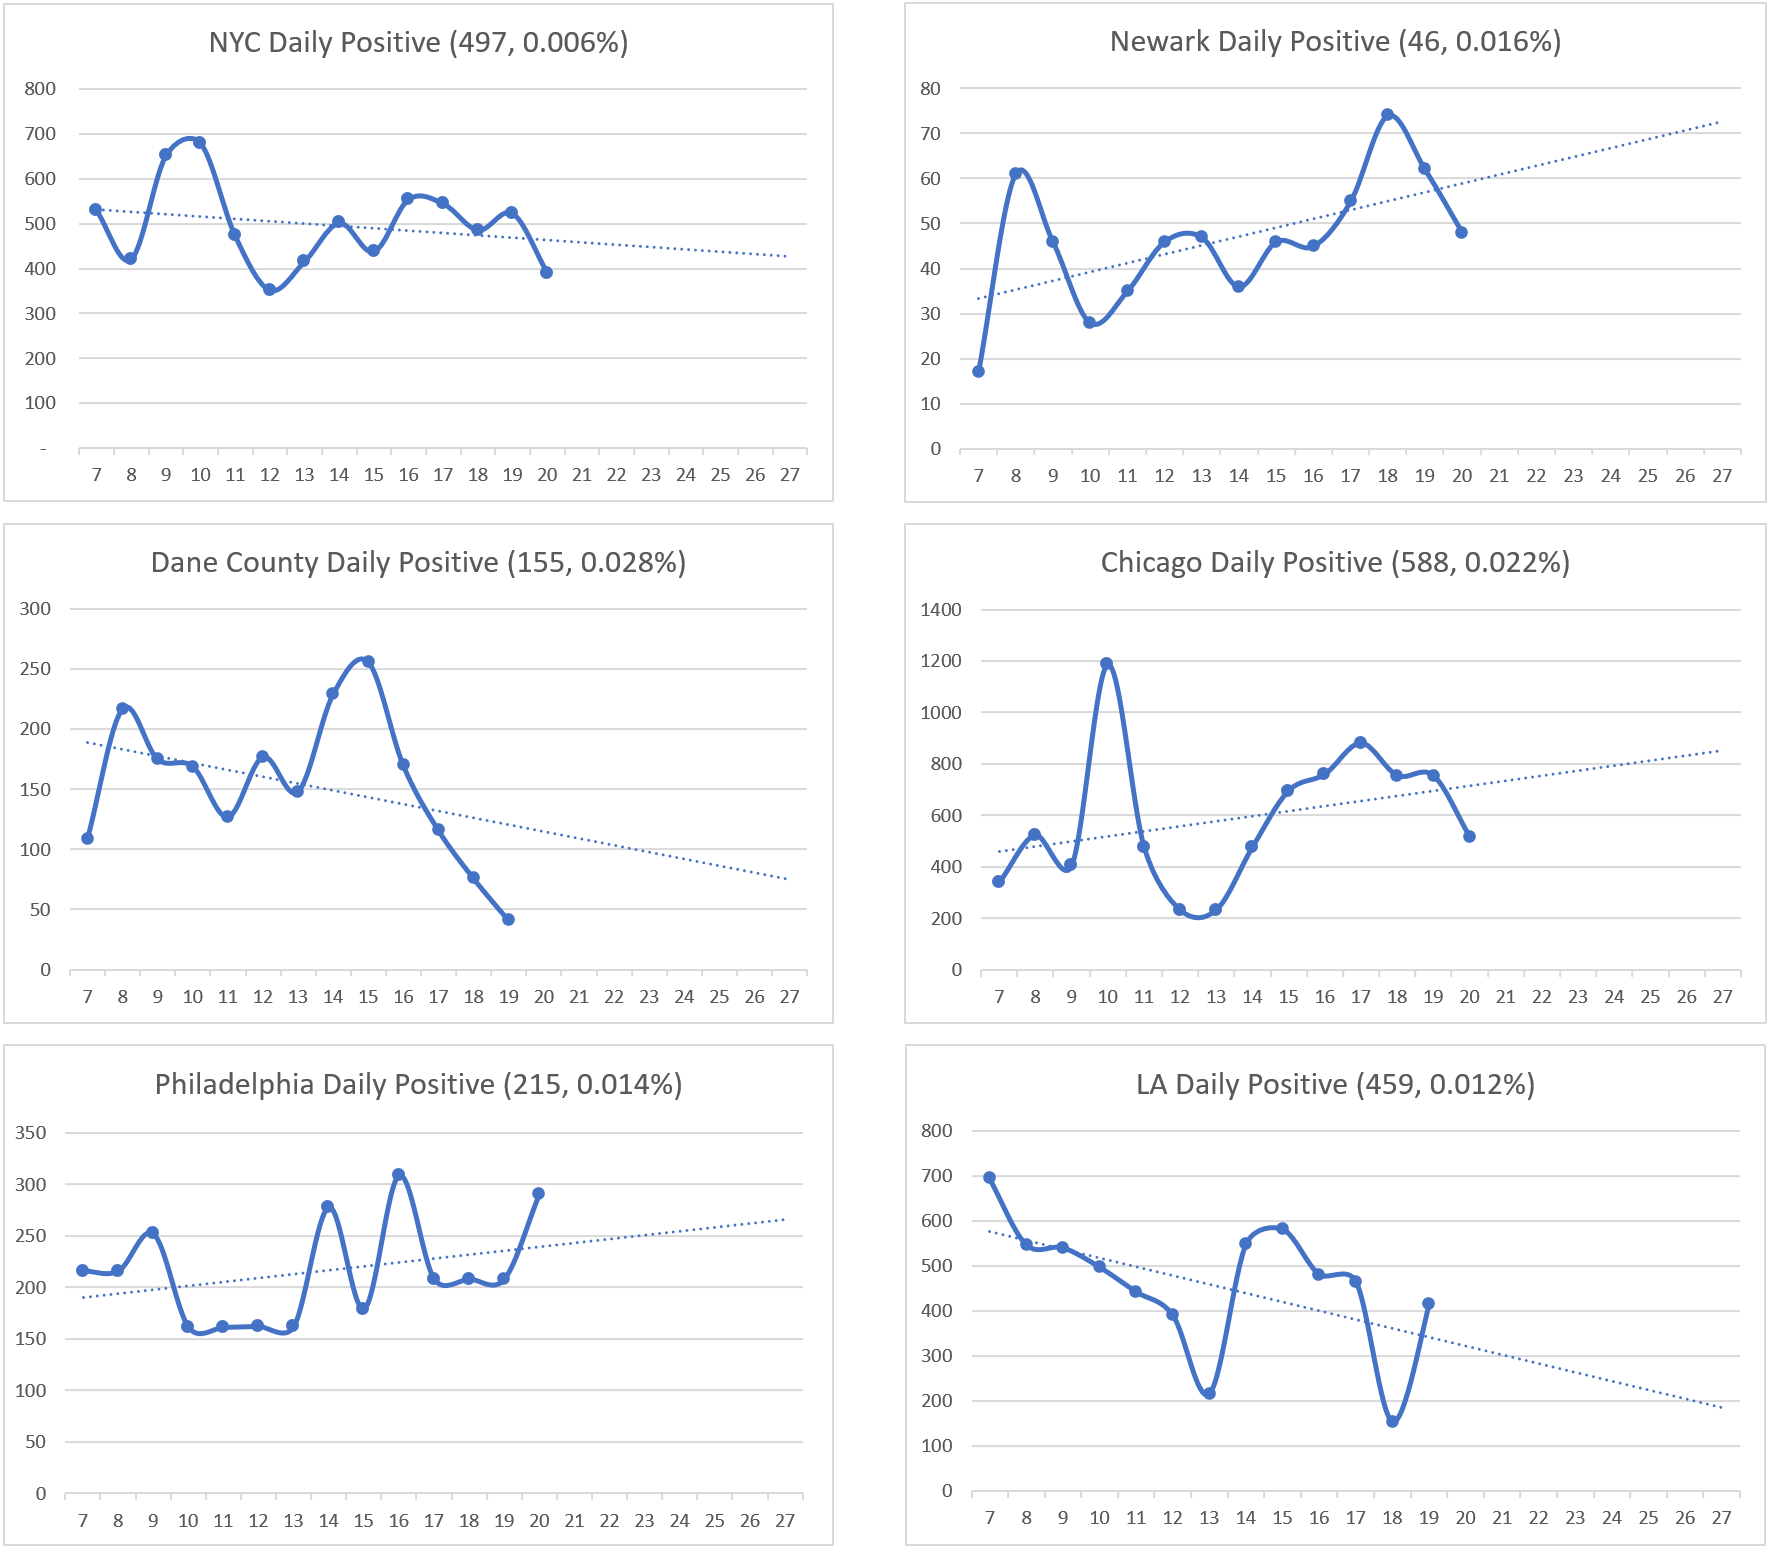
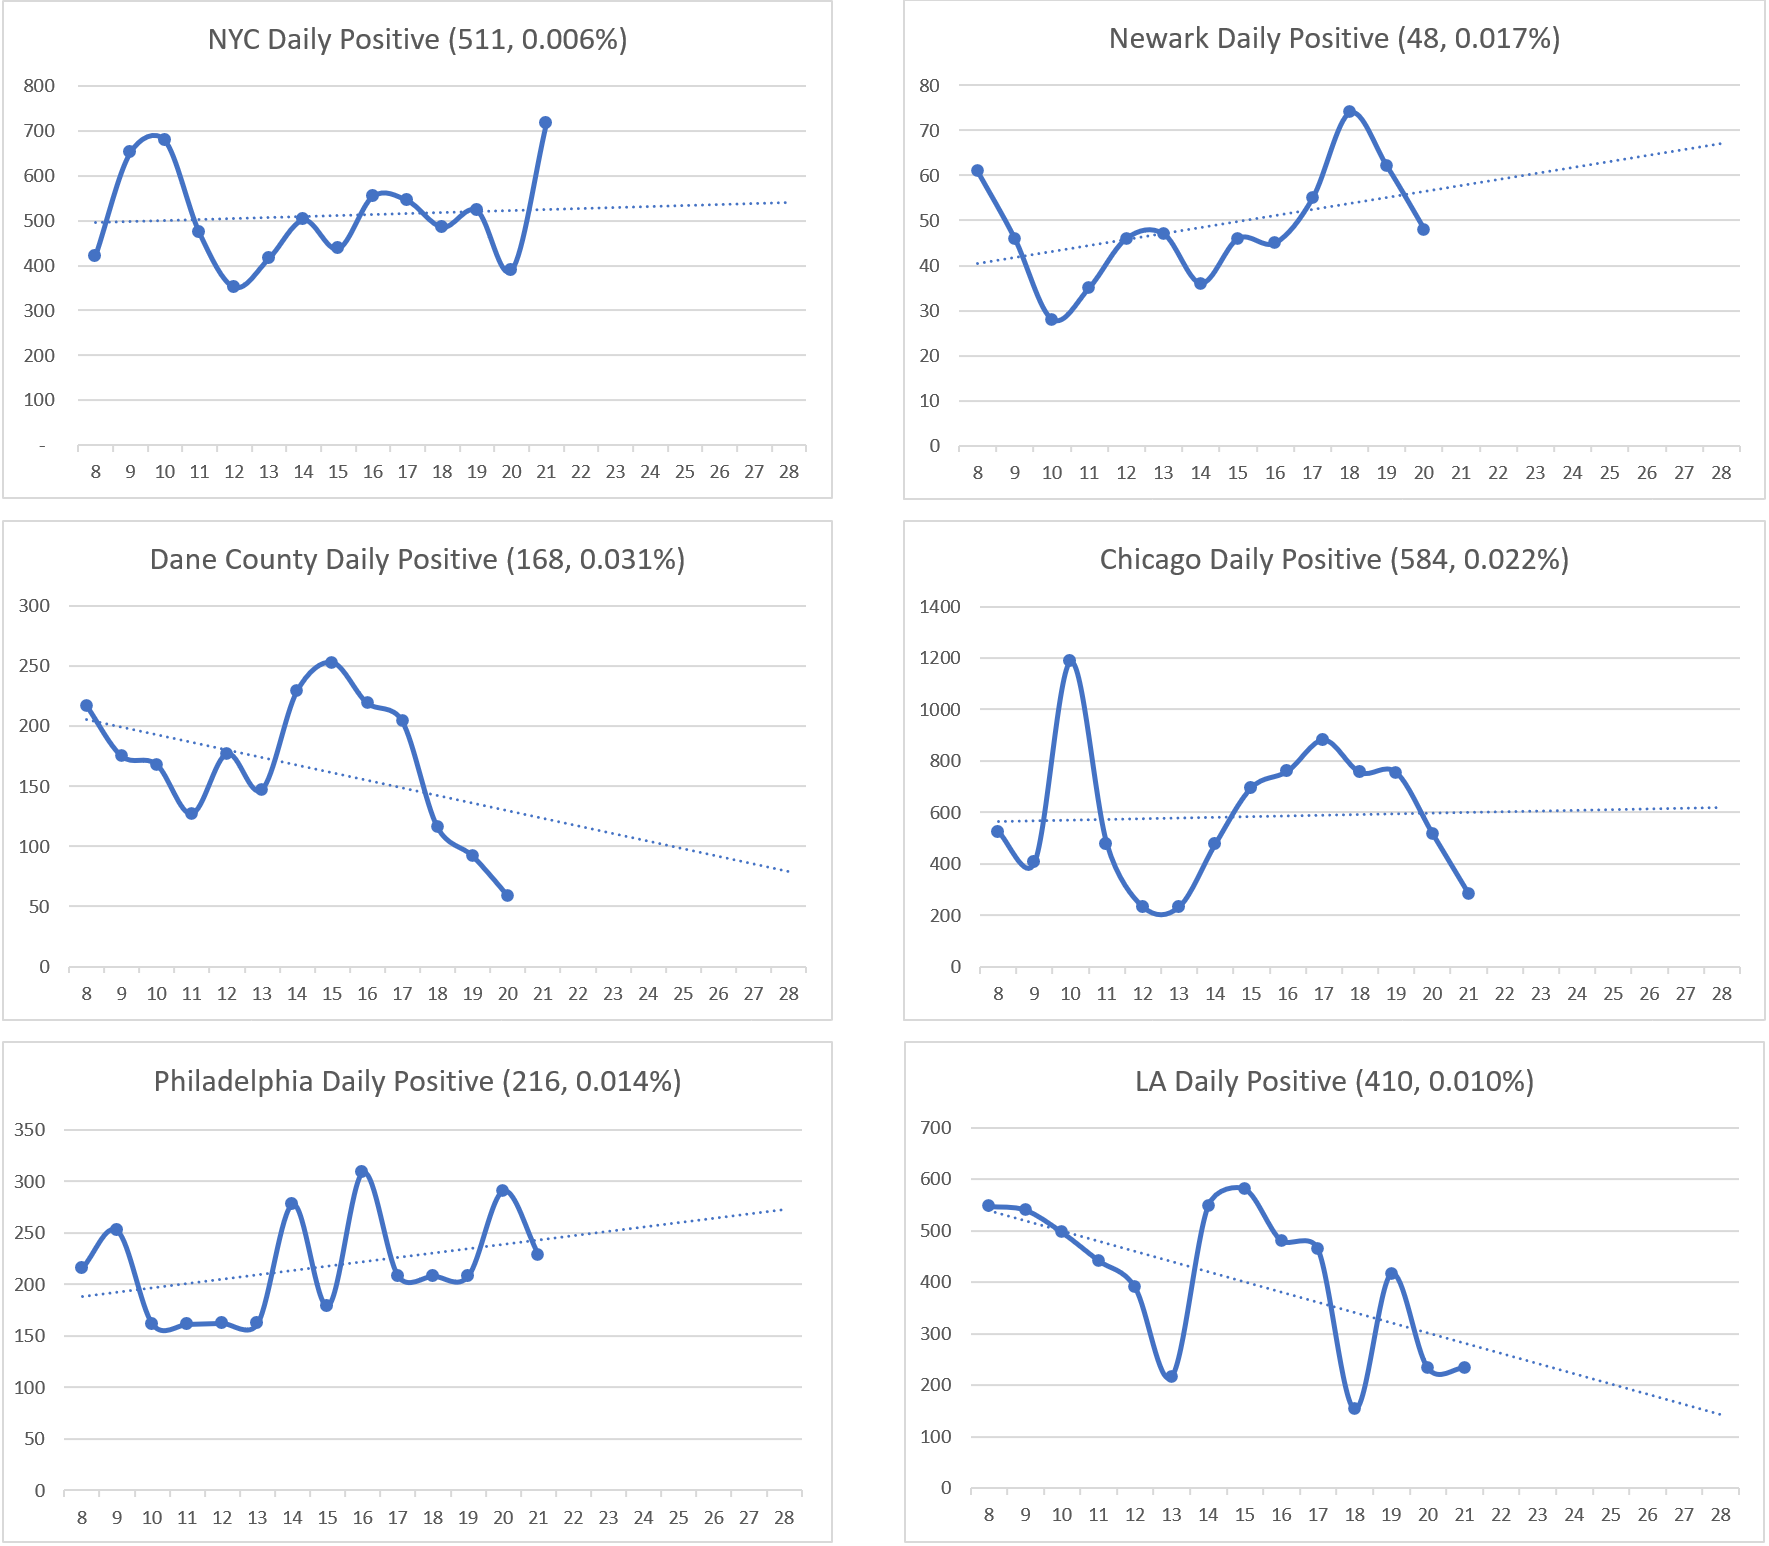
update 10/21 status

diff --git a/index.html b/index.html
@@ -19,7 +19,7 @@
 
 <body class="container-fluid">
 	<h1> CoronaV for Friends</h1>
-	<h2> Data updated at Oct 20 2020 EST 19:35</h2>
+	<h2> Data updated at Oct 21 2020 EST 20:05</h2>
 	<hr>
 	<main>
 		<div class="row">
